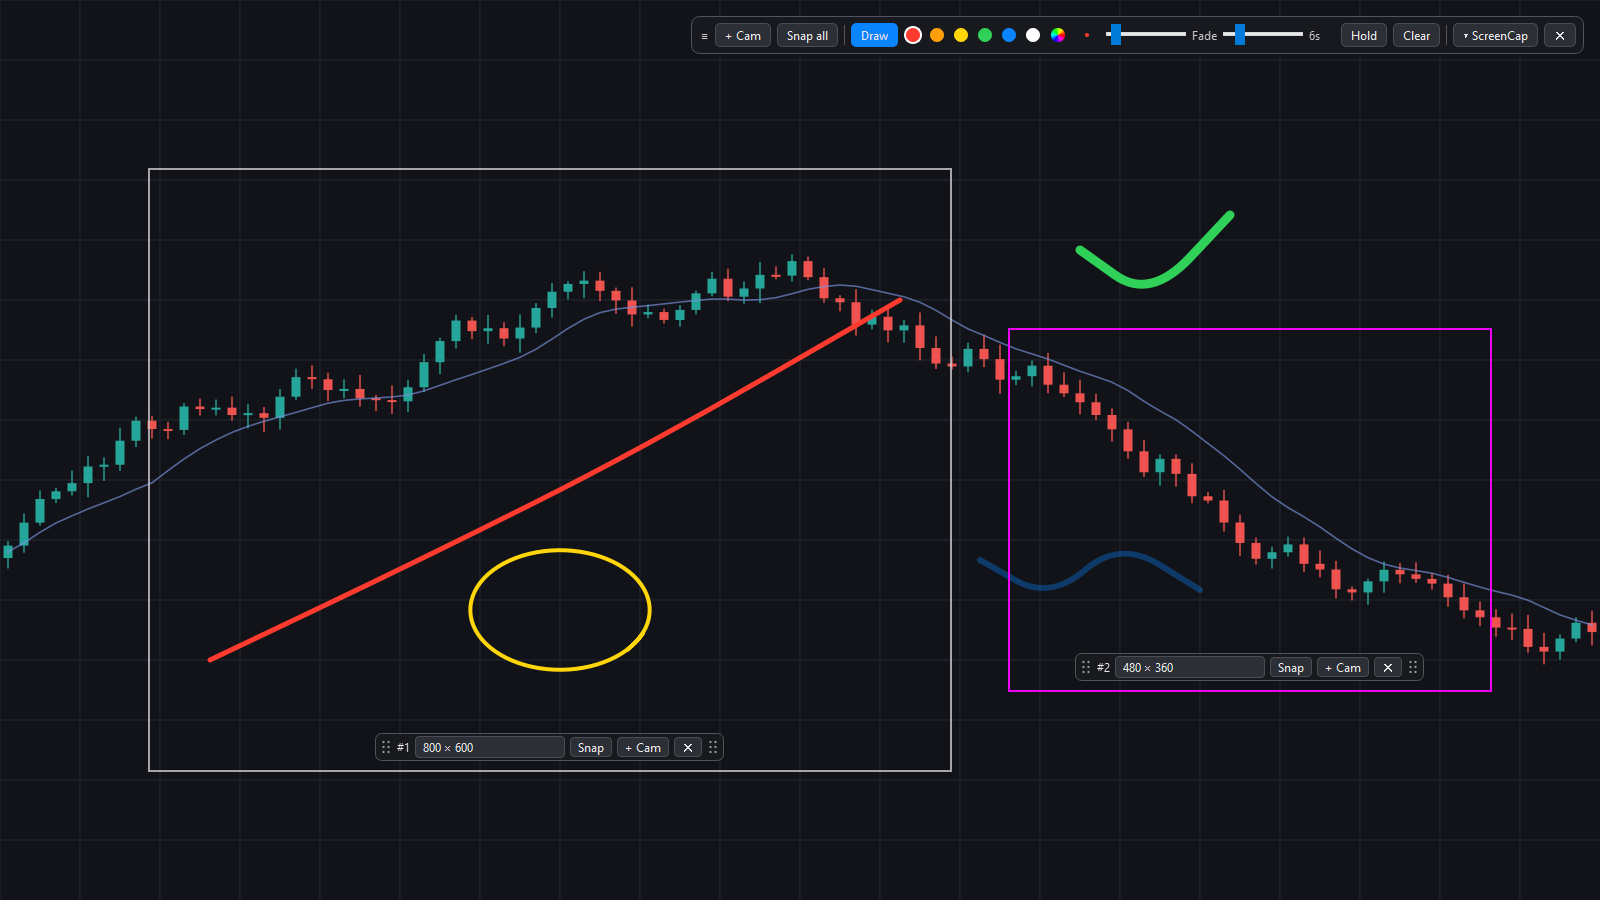
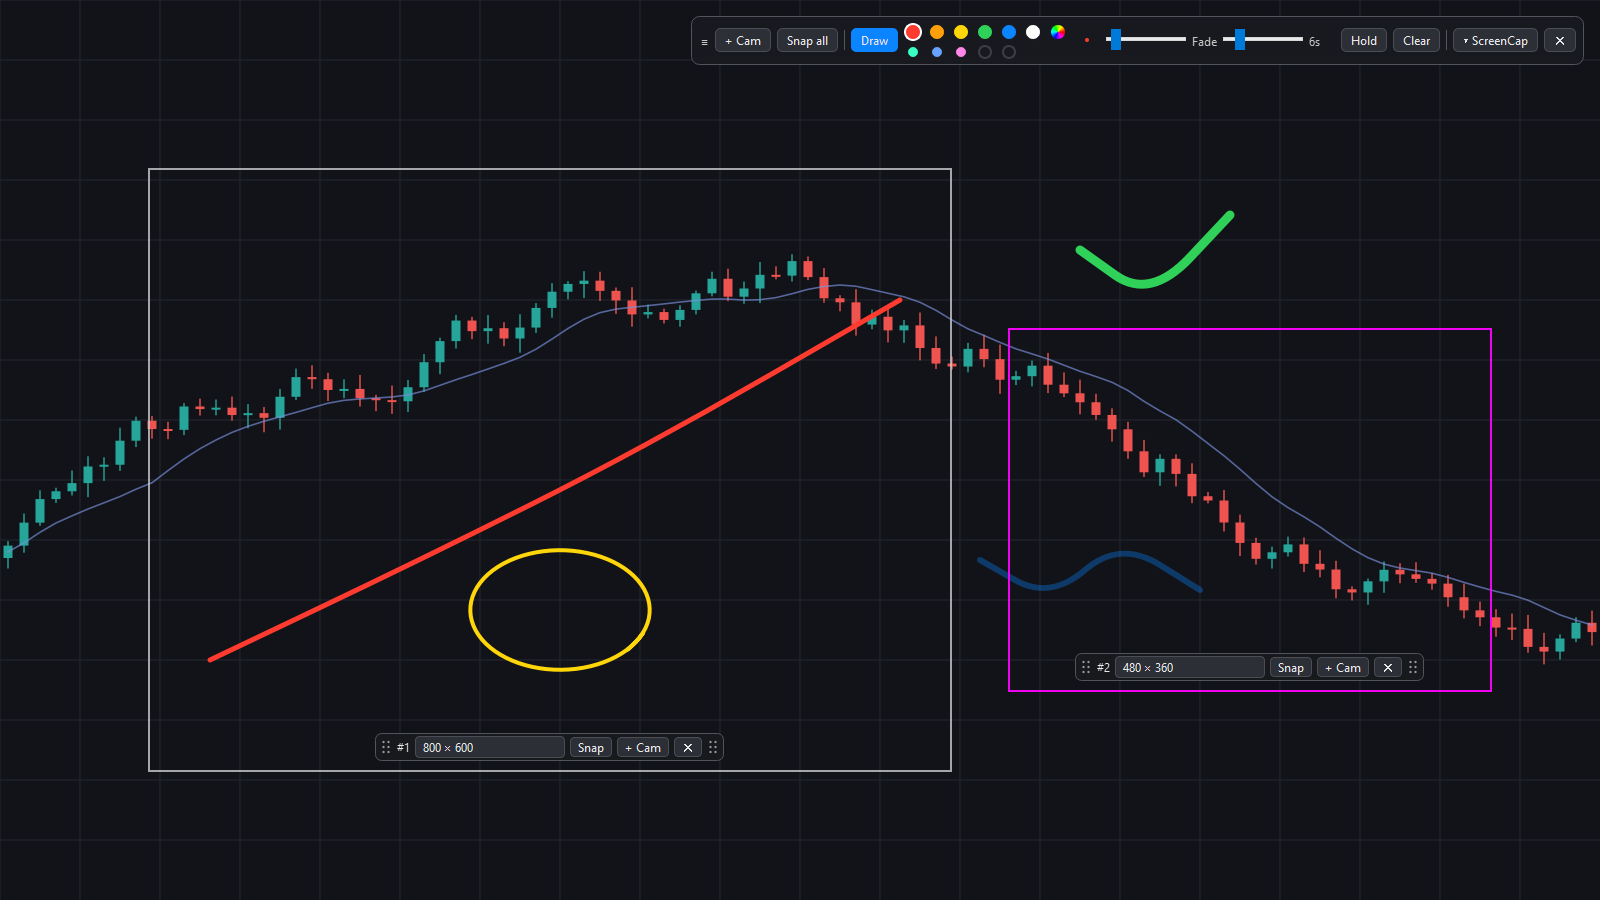
Update toolbar images and text

Changed region(s): [[0.4375, 0.0, 1.0, 0.0622]]

diff --git a/index.html b/index.html
@@ -79,7 +79,7 @@
         <h2>Marker</h2>
         <ul>
           <li><b>Draw on anything</b> across every monitor, then click through again the moment you switch it off.</li>
-          <li><b>Fine point to thick marker:</b> 1 to 40 px, six colours plus a colour wheel for any other.</li>
+          <li><b>Fine point to thick marker:</b> 1 to 40 px, six colours plus a colour wheel that remembers your last five picks.</li>
           <li><b>Fade slider:</b> strokes disappear after 1 to 30 seconds.</li>
           <li><b>Hold</b> keeps them until you press Clear.</li>
           <li><b>Right-click</b> undoes the last stroke.</li>

diff --git a/README.md b/README.md
@@ -22,7 +22,7 @@ land straight in a folder.
   hidden for the capture. The last shot is also copied to the clipboard.
 
 **Marker**
-- `Draw` turns on a marker across every monitor: six colours plus a colour wheel for any other, 1-40 px tip.
+- `Draw` turns on a marker across every monitor: six colours plus a colour wheel that remembers your last five picks, 1-40 px tip.
 - Strokes fade after 1-30 s, or stay until cleared with `Hold`.
 - Right-click undoes the last stroke, Esc leaves draw mode.
 - Marker strokes are included in captures.
